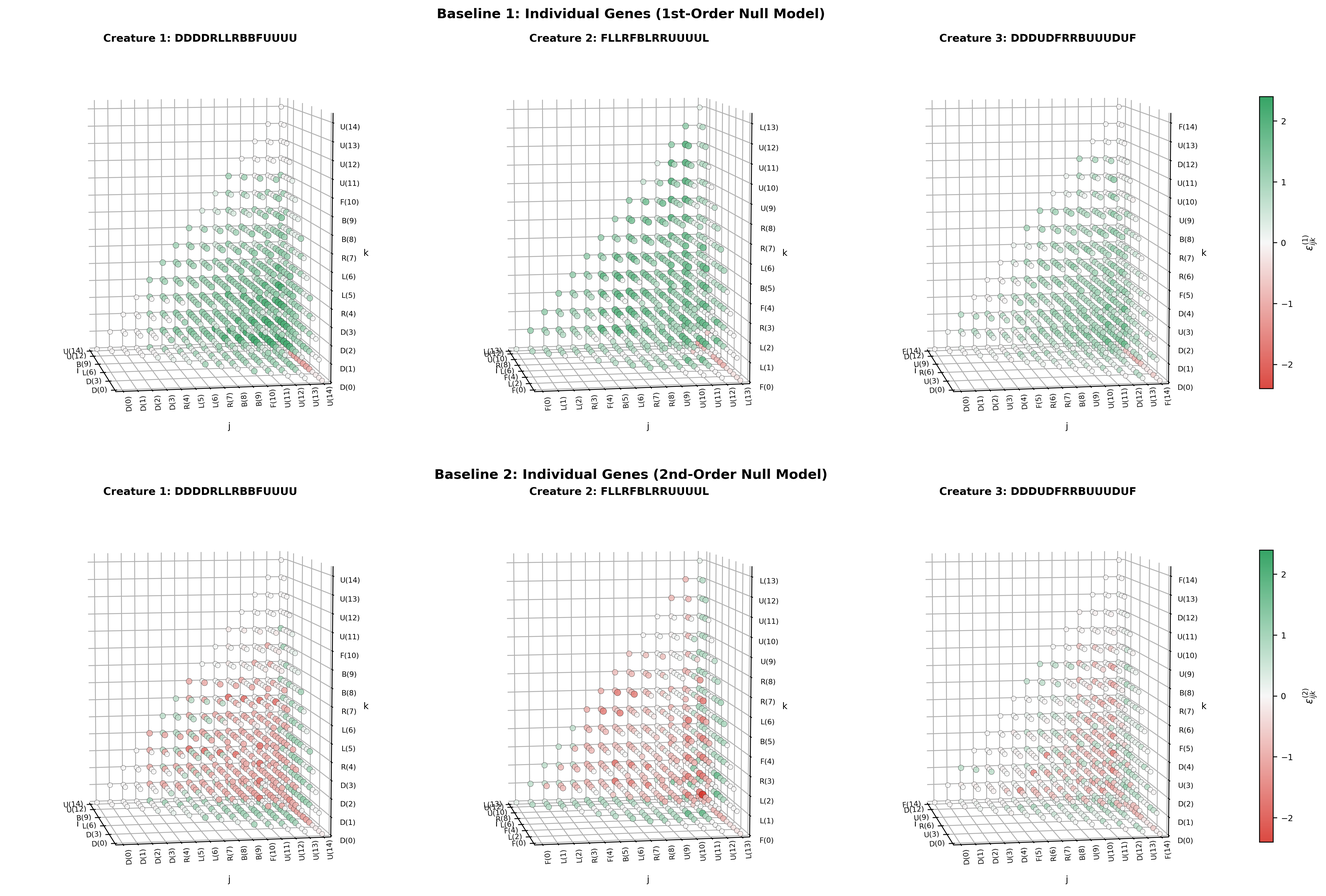
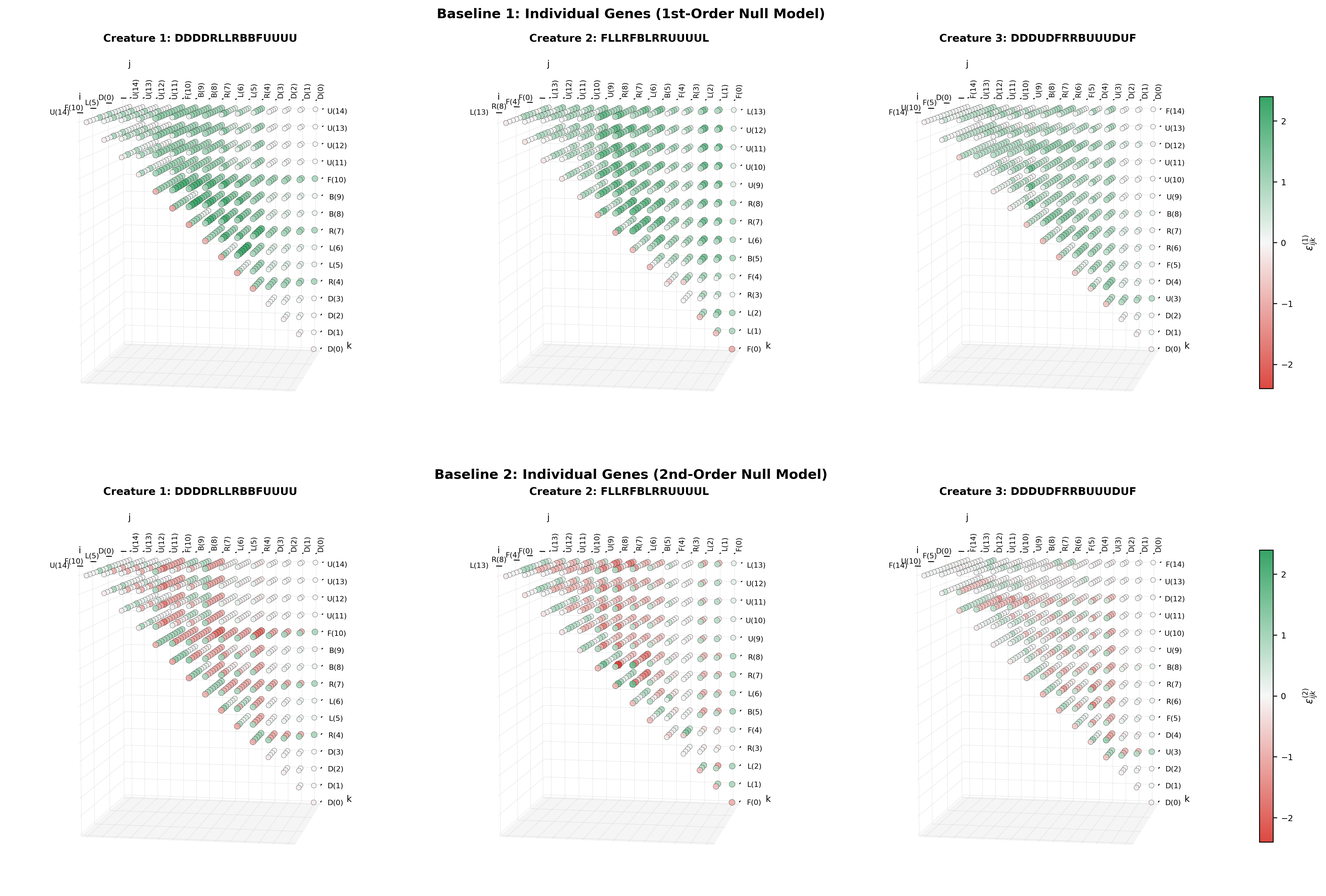
BIA/evo assignment 7: canonical 3D epistasis indexing, desaturate grid, update docs and TODO

diff --git a/sem-1/BIA/Evolutionary Design/assignments/Assignment 7 - Epistasis & Gene linkage/estimate_3d_epistasis.py b/sem-1/BIA/Evolutionary Design/assignments/Assignment 7 - Epistasis & Gene linkage/estimate_3d_epistasis.py
@@ -233,36 +233,17 @@ def _resolve_baseline_config(baseline: Any) -> Tuple[int, Dict[str, str]]:
 
 
 def extract_plotted_points(res: Dict[str, Any], baseline: int = 1,
-    include_lateral: bool = True, include_diagonal: bool = True, opposite_corner: bool = True,
+    include_lateral: bool = True, include_diagonal: bool = True, opposite_corner: bool = False,
 ) -> Tuple[List[int], List[int], List[int], np.ndarray]:
     """
-    Extracts (xs, ys, zs, vals) for a single creature and baseline.
-    Tetrahedron structure:
-      When opposite_corner=True (default):
-        Places the tetrahedron on the opposite corner of the ji-plane:
-        - Base triangle on k=0: corner at (L-1, L-1, 0), hypotenuse between (0, L-1, 0) and (L-1, 0, 0)
-        - Vertical wall on i=L-1: (L-1, L-1, 0) - (L-1, 0, 0) - (L-1, L-1, L-1)
-        - Vertical wall on j=L-1: (L-1, L-1, 0) - (0, L-1, 0) - (L-1, L-1, L-1)
-        - Apex at (L-1, L-1, L-1)
-      When opposite_corner=False:
-        - Base triangle on k=0: (0, 0, 0) - (L-1, 0, 0) - (0, L-1, 0)
-        - Vertical wall on i=0: (0, 0, 0) - (0, L-1, 0) - (0, 0, L-1)
-        - Vertical wall on j=0: (0, 0, 0) - (L-1, 0, 0) - (0, 0, L-1)
-        - Apex at (0, 0, L-1)
+    Extracts (xs, ys, zs, vals) for a single creature and baseline where
+    coordinates directly correspond 1-to-1 via identity to gene indices:
+    x = gene i, y = gene j, z = gene k, and val = tensor[i, j, k].
 
-    Domain:
-      0 <= k < L
-      0 <= j <= L - 1 - k
-      0 <= i <= L - 1 - k - j
-      (i.e. i >= 0, j >= 0, k >= 0, i + j + k <= L - 1)
-    Mapped sorted gene indices:
-      a = i
-      b = i + j
-      c = i + j + k
-    where 0 <= a <= b <= c < L:
-      - Strict triplets: a < b < c (i >= 0, j > 0, k > 0)
-      - Lateral pairs: (a == b < c, i.e. j == 0, k > 0) or (a < b == c, i.e. j > 0, k == 0)
-      - Diagonal single knockouts: a == b == c (j == 0, k == 0)
+    Canonical triplets domain: 0 <= i <= j <= k < L:
+    - Strict triplets: i < j < k (canonical ordered combinations, C(L, 3))
+    - Lateral pairwise epistasis: (i == j < k) or (i < j == k)
+    - Diagonal single knockouts: i == j == k (spatial diagonal)
     """
     geno = res['geno']
     L = len(geno)
@@ -273,24 +254,19 @@ def extract_plotted_points(res: Dict[str, Any], baseline: int = 1,
         return [], [], [], np.array([], dtype=float)
 
     xs, ys, zs, vals = [], [], [], []
-    for k in range(L):
-        for j in range(L - k):
-            for i in range(L - k - j):
-                a = i
-                b = i + j
-                c = i + j + k
-                if not include_lateral and (a == b or b == c):
+    for i in range(L):
+        for j in range(i, L):
+            for k in range(j, L):
+                is_diag = (i == j == k)
+                is_lat = (i == j or j == k) and not is_diag
+                if not include_diagonal and is_diag:
                     continue
-                if not include_diagonal and (a == b == c):
+                if not include_lateral and is_lat:
                     continue
-                val = tensor[a, b, c]
+                val = tensor[i, j, k]
                 if not np.isnan(val):
-                    if opposite_corner:
-                        xs.append(L - 1 - i)
-                        ys.append(L - 1 - j)
-                    else:
-                        xs.append(i)
-                        ys.append(j)
+                    xs.append(i)
+                    ys.append(j)
                     zs.append(k)
                     vals.append(val)
 
@@ -350,7 +326,7 @@ def plot_creature_3d_heatmap(ax: Axes3D,
     ax.set_box_aspect((stretch_xy, stretch_xy, stretch_k))
 
     # Clean panes: eliminate distracting empty cube background fills
-    ax.xaxis.pane.fill = ax.yaxis.pane.fill = ax.zaxis.pane.fill = False
+    # ax.xaxis.pane.fill = ax.yaxis.pane.fill = ax.zaxis.pane.fill = False
     ax.xaxis.pane.set_edgecolor('none'), ax.yaxis.pane.set_edgecolor('none'), ax.zaxis.pane.set_edgecolor('none')
 
     #stat = res.get('stats', {})
@@ -359,16 +335,19 @@ def plot_creature_3d_heatmap(ax: Axes3D,
     prefix_lbl = f"Creature {creature_idx}: " if creature_idx is not None else ""
     ax.set_title(f"{prefix_lbl}{geno}", fontsize=9.5, fontweight='bold', pad=8)
 
-    step = max(1, L // 5)
+    step = max(1, L // 3)
     tick_locs = list(range(0, L, step))
     if (L - 1) not in tick_locs:
         tick_locs.append(L - 1)
+        if L-1 - tick_locs[-2]<step//2:
+            tick_locs.pop(-2)     
+
     tick_labels = [f"{geno[p]}({p})" for p in tick_locs]
 
     ax.set_xticks(tick_locs)
-    ax.set_xticklabels(tick_labels, fontsize=6.5, rotation=-azim//2, ha='right', va='center')
+    ax.set_xticklabels(tick_labels, fontsize=6.5, rotation=0, ha='right', va='center')
     
-    yang = 90-azim//2
+    yang = 90
     ytick_locs = list(range(0, L, int(round(90/yang))))
     ytick_labels = [f"{geno[p]}({p})" for p in ytick_locs]
     ax.set_yticks(ytick_locs)
@@ -381,12 +360,27 @@ def plot_creature_3d_heatmap(ax: Axes3D,
 
     # Decouple x-axis (i) ticks from vertical z-displacement so i labels stay higher on screen
     ax.xaxis._axmask = lambda: [False, True, False]
-    ax.tick_params(axis='x', pad=-2.0)
+    ax.tick_params(axis='x', pad=0)
     ax.tick_params(axis='y', pad=-1.5)
 
-    ax.set_xlabel("i", fontsize=8, labelpad=0)
-    ax.set_ylabel("j", fontsize=8, labelpad=1)
+    ax.set_xlabel("i", fontsize=8, labelpad=20)
+    ax.set_ylabel("j", fontsize=8, labelpad=2, y=0.5)
     ax.set_zlabel("k", fontsize=8, labelpad=2)
+
+    # place ticks/axes on the opposite corners to match the pyramide's edges
+    ax.xaxis._axinfo['juggled'] = (2,2,2)
+    ax.yaxis._axinfo['juggled'] = (2,2,2)
+    ax.zaxis._axinfo['juggled'] = (1,1,1)
+
+    #desaturating redundant coordinate planes:
+    ax.xaxis.set_pane_color((1, 1, 1, 0.2))  # yz-plane
+    ax.yaxis.set_pane_color((1, 1, 1, 0.2))  # xz-plane
+    # Leave ax.zaxis pane unchanged for xy-plane
+
+    # Desaturate background gridlines across all 3D axes
+    for axis in [ax.xaxis, ax.yaxis, ax.zaxis]:
+        axis._axinfo['grid']['color'] = (0.75, 0.75, 0.75, 0.35)
+        axis._axinfo['grid']['linewidth'] = 0.4
 
     if invert_i:
         ax.set_xlim(L - 0.5, -0.5)
@@ -709,7 +703,7 @@ def main():
     parser.add_argument("--stretch-k", type=float, default=2.5, help="Box aspect stretch factor for the k (vertical) axis (default: 2.0).")
     parser.add_argument("--stretch-xy", type=float, default=2, help="Box aspect stretch factor for the i and j (horizontal) axes (default: 1.5).")
     parser.add_argument("--elev", type=float, default=8.0, help="3D camera elevation angle in degrees (default: 8).")
-    parser.add_argument("--azim", type=float, default=-10, help="3D camera azimuth angle in degrees (default: 15).")
+    parser.add_argument("--azim", type=float, default=-170, help="3D camera azimuth angle in degrees (default: 15).")
 
     args = parser.parse_args()
 

diff --git a/sem-1/BIA/Evolutionary Design/assignments/Assignment 7 - Epistasis & Gene linkage/README.md b/sem-1/BIA/Evolutionary Design/assignments/Assignment 7 - Epistasis & Gene linkage/README.md
@@ -123,16 +123,26 @@ _**Figure 4:** Pairwise epistasis matrices for_ $k=3$ _dissimilar tall structure
 |Phenotypic specialization| [Creature 1](./selected/selected_1_HoF-f9-14.gen)<br><code>/\*9\*/</code><code style="color: blue">DDDD</code><code style="color: purple">R</code><code style="color:red">LL</code><code style="color:purple">R</code><code style="color:green">BB</code><code style="color:lime">F</code><code style="color:#00bcd4">UUUU</code> | [Creature 2](./selected/selected_2_HoF-f9-2.gen)<br> <code>/\*9\*/</code><code style="color:lime">F</code><code style="color: red">LL</code><code style="color:purple">R</code><code style="color:lime">F</code><code style="color:green">B</code><code style="color:red">L</code><code style="color:purple">RR</code><code style="color:#00bcd4">UUUU</code><code style="color:red">L</code> | [Creature 3](./selected/selected_3_HoF-f9-6.gen)<br><code>/\*9\*/</code><code style="color: blue">DDD</code><code style="color:#00bcd4">U</code><code style="color:blue">D</code><code style="color:lime">F</code><code style="color:purple">R</code><code style="color:purple">R</code><code style="color:green">B</code><code style="color:#00bcd4">UUU</code><code style="color:blue">D</code><code style="color:#00bcd4">U</code><code style="color:lime">F</code> |
 |-| ---------- | ---------- | ---------- |
 |**Spine growth genes**| **0-3, 11-14**. The first 4 `D` and the last 4 `U` genes correspond to the <em><b><span style="color:blue">blue</span></b></em> and <em><b><span style="color:#00bcd4">cyan</span></b></em> _twin-chords_, directly responsible for the **height** of the creature. Having **two (redundant) copies** slightly increases the center of the mass height (`vertpos`). Deleting these letters individually only slightly decreases `vertpos` (rows and columns 0 to 3 and 11 to 14 are mainly zero value). |**9-13**. Since these genes program growth of the spine (`UUUUL`) only (increasing `vertpos`), they do not interact with each other, but their positive (in terms of `vertpos`) effect depends on _base_ genes (_0-3, 5-8_). In contrast to genes _9-12_, gene `L` serves stabilization purpose.|**0-3, 9-14**. Similar to the first (best) creature, there are 2 spines - <em><b><span style="color:blue">blue</span></b></em> and <em><b><span style="color:#00bcd4">cyan</span></b></em>, encoded by the genes at the ends of genome. In contrast to the former creature, 2 genes - `U`<sup>3</sup> and `D`<sup>12</sup> are the **key gene responsble for stability** of the creature, since both decrease long chords lengths (and hence <u>two pairs of genes <`U`<sup>3</sup>, `D`> and <`D`<sup>12</sup>, `U`> cancel out</u> - the same effect described in the second creature) - without them the creature overturns. **4**. The role of the gene `D`<sup>4</sup> is complementary to the gene `U`<sup>3</sup>, making it a **key gene responsible for morphological stability** - without this the <em><b><span style="color:blue">blue</span></b></em> chord would grow below _the base_ level, overturning the creature.
-|**Plinth genes**|**4**. Gene `R` tells the direction to place the <em><b><span style="color:blue">blue</span></b></em> spine (`DDDD`) in the center of creature's plinth, critical to the stability of the creature - removing this gene places the center of mass allows small physical perturbations to overturn the creature, coloring the 4th row and column into <em style="color:MediumSeaGreen">light green</em> (definitely positive effect). However, removal of just one `D` places the center of mass safely above the base. **5-6**. These genes are responsible for symmetry of a base, and hence are **critical for stability** of the whole creature (interaction with genes _4-10_). Genes encoding _spines_ have little mutual effect with these two genes individually, the relationship will appear on [3D map of epistasis](#3d-epistasis-heatmaps). **7**. Gene `R` here is directly responsible for the symmetry of the base, placing the center of mass directly on the median segment of the base hull, yielding the highest "collaboration rate" (central <em style="color:MediumSeaGreen">light green cross</em> on the matrix). **8-9**. Each of two genes `B` allows <em><b><span style="color:#00bcd4">cyan</span></b></em> chord to be placed - without one of these two genes the second spine disappears and `vertpos` drops noticeably. **10** Gene `F` places the <em><b><span style="color:#00bcd4">cyan</span></b></em> spine towards the center of the base, which is critical for stability (without this gene a creature overturns).| **0-2**. Gene `F` allows for one of the supporting sticks to emerge (**key for stabilization**), genes `LL` move this 'leg' towards the only place, where the position of the creature is stable. **3-4**. These genes alter the base form but in the way that does not affect the stability of the creature, thus these genes show **little epistasis** (~zero rows/colums). **5-8**. These genes influence the shape of _the base_ (`BL`) and position of _the spine_ on it (`RR`), and thus have positive epistasis with spine-genes. Gene <code>L<sup>6</sup></code> specifically has strong interaction with `RR` genes (<em style="color:green">dense green</em>), shortening the base extended by 2 _R_-direction genes, thus **making the base hull compact**. <u>Hence a pair `LR` cancels out (redundant subsequence)</u>|**5-8**. Genes `FRRB` form a U-shaped _base_, placing the center of mass strictly inside _the base hull_. Each gene here has an individual interaction with every other base gene.
+|**Plinth genes**|**4**. Gene `R` tells the direction to place the <em><b><span style="color:blue">blue</span></b></em> spine (`DDDD`) in the center of creature's plinth, critical to the stability of the creature - removing this gene places the center of mass allows small physical perturbations to overturn the creature, coloring the 4th row and column into <em style="color:MediumSeaGreen">light green</em> (definitely positive effect). However, removal of just one `D` places the center of mass safely above the base. **5-6**. These genes are responsible for symmetry of a base, and hence are **critical for stability** of the whole creature (interaction with genes _4-10_). Genes encoding _spines_ have little mutual effect with these two genes individually, the relationship will appear on [3D map of epistasis](#3d-epistasis-heatmaps). **7**. Gene `R` here is directly responsible for the symmetry of the base, placing the center of mass directly on the median segment of the base hull, yielding the highest "collaboration rate" (central <em style="color:MediumSeaGreen">light green cross</em> on the matrix) - for instance, removing any other spinal gene restores the balance; removing any base gene does nothing - the creature already overturned (in both cases $\Delta F_{7, i} \gg \Delta F_7 + \Delta F_i$). **8-9**. Each of two genes `B` allows a <em><b><span style="color:#00bcd4">cyan</span></b></em> chord to appear - without one of these genes the second spine grows inside the first one and the creature falls down. **10** Gene `F` places the <em><b><span style="color:#00bcd4">cyan</span></b></em> spine towards the center of the base, which is critical for stability (without this gene a creature overturns).| **0-2**. Gene `F` allows for one of the supporting sticks to emerge (**key for stabilization**), genes `LL` move this 'leg' towards the only place, where the position of the creature is stable. **3-4**. These genes alter the base form but in the way that does not affect the stability of the creature, thus these genes show **little epistasis** (~zero rows/colums). **5-8**. These genes influence the shape of _the base_ (`BL`) and position of _the spine_ on it (`RR`), and thus have positive epistasis with spine-genes. Gene <code>L<sup>6</sup></code> specifically has strong interaction with `RR` genes (<em style="color:green">dense green</em>), shortening the base extended by 2 _R_-direction genes, thus **making the base hull compact**. <u>Hence a pair `LR` cancels out (redundant subsequence)</u>|**5-8**. Genes `FRRB` form a U-shaped _base_, placing the center of mass strictly inside _the base hull_. Each gene here has an individual interaction with every other base gene.
+
+
+<a id="base-spine-specialization"></a>
 
 #### Specialization of genes extracted from pairwise epistasis matrix
-[The table](#table-epistasis-genes) above can be summarized as follows: after canceling out redundant subsequences of genes, rows and columns that form <em style="color:MediumSeaGreen">light green</em> to <em style="color:green">dense green</em> squares correspond to the _plinthed base_ phenes and the rows and columns that has near-zero interaction with each other (`white` squares) and intermediate interactions (<em style="color:#cefad0">pale green</em>) with the other genes, form _spine_ phene groups. See [Figure 4](#fig-epistasis-matrices)
+[The table](#table-epistasis-genes) above can be summarized as follows: after canceling out redundant subsequences of genes, rows and columns can be grouped in two groups:
+- Groups that have noticeable interaction (<em style="color:MediumSeaGreen">light green</em> to <em style="color:green">dense green</em> squares) correspond to the _plinthed base_ phenes (and have strong individual effects - <em style="color:lightcoral">bright red</em> diagonal elements)
+- groups that has near-zero interaction with each other (`white` squares) and intermediate interactions (<em style="color:#cefad0">pale green</em>) with the other genes, form _spine_ phene groups. See [Figure 4](#fig-epistasis-matrices). 
 
 #### Individual effects (red diagonals)
 Individual (diagonal) effects $\Delta F_i$ take negative values since extraction of any gene from the genome leads to a decrease in the fitness depending on the role of the gene:
-- gene encodes _spinal phene_ $\implies$ height slightly decreases
-- gene encodes a part of _plinth_ $\implies$ creature immediately falls down yielding near-zero fitness.
+- gene $s$ encodes _spinal phene_ $\implies$ height slightly decreases (<em style="color:#faced0">pale red</em> diagonal elements): $\Delta F_s\approx 0$
+- gene $b$ encodes a part of _base plinth_ $\implies$ creature immediately falls down yielding near-zero fitness (<em style="color:lightcoral">bright red</em> diagonal elements): $\Delta F_b\gg 0$
 
+Since removing any _base_ gene overturns the creature, near-zero epistasis between _base_ and _spinal_ genes can be explained by individual effect of knocking out a base gene $b$
+
+$$ \varepsilon_{b, s} \approx 0 \iff \Delta F_{b,s} \approx \Delta F_b + \Delta F_s \approx \Delta F_b$$
+
+In rare cases (base gene `7` in Creature 1, green cross on [Figure 4](#fig-epistasis-matrices)) base and spinal genes strongly interact with each other.
 
 ## Triple Epistasis (Task 2)
 
@@ -165,10 +175,10 @@ $$\varepsilon^{(2)}_{i,j,k} \equiv \varepsilon^{(1)}_{i,j,k} - (\varepsilon_{ij}
 
 _**Note:** In case of [Baseline 1](#baseline-1),_ $\varepsilon^{(1)}_{i,j,k} = 0$ _would mean that either the interaction is additive_ $(\varepsilon^{(1)}_{i,j,k}=\Delta F_i+\Delta F_j + \Delta F_k)$ _or pairwise-decomposable_ ($\varepsilon^{(2)}_{i,j,k}=\Delta F_{ijk}$). _Hence the definition of $\varepsilon^{(1)}$ yields less information than of_ $\varepsilon^{(2)}$.
 
-In the calculated 3D tensors $(L \times L \times L)$:
+In the calculated 3D tensors $(L \times L \times L)$ and [Figure 5](#3d-epistasis-heatmaps):
 - The main diagonal ($i = j = k$) stores the single-gene knockout effect $\Delta F_i (\equiv \Delta F_{iii})$.
-- The 2D lateral planes/diagonals ($i = j \ne k$, etc.) store the pairwise epistases $\varepsilon_{ij}$.
-- The off-diagonal entries ($i \ne j \ne k \ne i$) store the triplet epistasis ($\varepsilon_{ijk}^{(\cdot)}$).
+- Diagonal planes with 2 coincide indices (e.g. $(i=j, k)$) store [pairwise epistases](#fig-epistasis-matrices) $\varepsilon_{i,j}$.
+- The off-diagonal entries ($i \ne j \ne k \ne i$) store the triplet epistasis ($\varepsilon_{ijk}^{(\cdot)}$). For a given knocked out gene $k$, a cross-section parallel to one of the coordinate planes - $\pi^k_{ij} = \{(i, j) |\text{fix }k\}$ - stores the pairwise epistases $\varepsilon^k_{ij}$ after gene $k$ is knocked out.
 
 ### 3D Epistasis Heatmaps
 
@@ -176,7 +186,7 @@ In the calculated 3D tensors $(L \times L \times L)$:
   <img src="./results/epistasis/epistasis_3d_combined.png" width="98%" alt="3D Epistasis Heatmaps across Baseline 1 and Baseline 2"/>
   <br>
 
-_**Figure 5:** 3D epistasis heatmaps (balls arranged in a 3D grid) for_ $k=3$ _dissimilar creatures. **Top row:** Baseline 1 (relative to individual genes_ $\varepsilon_{ijk}^{(1)}$). _**Bottom row:** Baseline 2 (relative to pairwise interactions_ $\varepsilon_{ijk}^{(2)}$). _**Colormap:** Green - positive synergy / buffering; Red - negative / synthetic breakdown. The scale of the colormap differs from the one used in 2D-epistatic visualisations._
+_**Figure 5:** 3D epistasis heatmaps (balls arranged in a 3D grid) for_ $k=3$ _dissimilar creatures, depicting_ $\varepsilon_{ijk}^{(\cdot)}\ | \ \forall i\le j\le k$. **Top row:** Baseline 1 (relative to individual genes_ $\varepsilon_{ijk}^{(1)}$). _**Bottom row:** Baseline 2 (relative to pairwise interactions_ $\varepsilon_{ijk}^{(2)}$). _**Colormap:** Green - positive synergy / buffering; Red - negative / synthetic breakdown. The scale of the colormap differs from the one used in 2D-epistatic visualisations. A semiplane on the visilbe side of the pyramides coincide with the upper triangle of epistasis matrices ([Figure 4](#fig-epistasis-matrices))._
 </p>
 
 ### Epistasis Matrix Sums Comparison
@@ -208,8 +218,18 @@ $$\lvert\bar{\varepsilon}^{(\cdot)}\rvert \mathrel{:=} \frac{1}{\binom{L}{3}} \s
 
 2. **Baseline 2 ($\sum \varepsilon^{(2)} < 0$, Irreducible Negative 3-Way Epistasis)**:
    - Once all pairwise interactions are accounted for, the total epistasis flips to negative (prominent red clusters, $\text{dir }\varepsilon^{(2)} \ll 0$).
-   - As predicted in [Task 1](#table-epistasis-genes), base-symmetry genes (e.g. <code>LL/R<sup>5-7</sup></code> in Creature 1, or <code>BL/RR<sup>5-8</sup></code> in Creature 2, see the [Table](#table-epistasis-genes)) have strong pairwise collaborations with the spine anchors (<code>R<sup>4</sup></code>, <code>F<sup>10</sup></code>). When two of these genes are knocked out, the creature has already completely toppled over: knocking out a third gene (such as a spinal segment `UUUU`) produces diminishing marginal damage compared to what the pairwise sum predicts, manifesting as negative third-order interaction.
-   - Creature 3 features the lowest magnitude of 3-way epistasis ($|\sum \varepsilon^{(2)}| = 62.25$ vs $171.78$ in Creature 1) because its alternating loops (`DDDUDFRRBUUUDUF`) distribute structural stabilization across several self-canceling sub-segments (`UD`, `DU`), making its higher-order genetic interactions more modular.
+   - As mentioned in [Task 1](#base-spine-specialization), **_base_ genes** (e.g. `4-10` in Creature 1, or `0-8` in Creature 2, see the [Table](#table-epistasis-genes)) **have strong pairwise collaborations** with each other and intermediate collaboration with the _spine_ encoding genes. When one of _base_ genes $b$ is knocked out, in most cases creature topples over: 
+      - knocking out two spinal genes will take no effect (white bars on 3D map: main terms in the epistasis formula are $F_{b,b', s} -\Delta F_{b}\approx 0$); 
+      - knocking out a pair of _base_ and _spinal_ genes $(b', s)$ pproduces diminishing marginal damage compared to what the pairwise sum predicts, manifesting as negative third-order interaction (due to 2 individual base effects $ \Delta F_{b, b', s} - (\Delta F_{b'} + \Delta F_{b}) \ll 0$).
+      - In some cases knocking two base genes have buffered knocking out a third spinal gene from toppling the creature over: in creature 1 knocking out any of genes 0-3 once two genes 5-6 are knocked out, preserves stability of the creature - green row on a 3D map.
+      - Analagous type of buffering happens in the same creature when _base_ gene 8/9 is knocked out and then 2 "parallel" spinal genes (0-3 and 11-14) must be dropped out to preserve stability of the creature. 
+      - Similar to the effect of knocking out 2 bases, knocking out 3 bases may yield the worst result in case of strong pairwise dependency: knocking genes 6-8 in Creature 2 yields the formula with multiple dominating negative terms ($-\varepsilon$) in the epistasis formula.
+
+   - Creature 3 features the lowest magnitude of 3-way epistasis ($|\sum \varepsilon^{(2)}| = 62.25$ vs $171.78$ in Creature 1) because its alternating loops (`DDDUDFRRBUUUDUF`) distribute structural stabilization across several self-canceling sub-segments (`UD`, `DU`), making its higher-order genetic interactions more modular: this creature features the least amount of triple epistatic effects.
+
+   - Empirical examination of the Baseline 2 3D maps suggests that positive epistasis - green areas of off-diagonal entries - provide information regarding buffering interaction between triplets of genes. For instance, knocking out 3 genes 3-4 and 1 or 2 in creature 3 preserves its stability, i.e. the creature doesn't topple down. Negative and neutral values provide little information regarding triple interactions due to positive pairwise epistases. 
+
+  
 
 ## How to Run
 ```powershell

diff --git a/sem-1/BIA/Evolutionary Design/assignments/Assignment 7 - Epistasis & Gene linkage/TODO.md b/sem-1/BIA/Evolutionary Design/assignments/Assignment 7 - Epistasis & Gene linkage/TODO.md
@@ -1,0 +1,21 @@
+# TODO: 3D Epistasis README Feedback & Corrections
+
+- [ ] **Answer Key Question Explicitly in Section 212**:
+  - Explicitly open the discussion by stating that Baseline 2 is distinctly more useful for discovering new higher-order triplet information.
+  - Reiterate that Baseline 1 is dominated by trivial positive epistasis caused by the physical fitness floor ($F \ge 0$), whereas Baseline 2 isolates genuine irreducible 3-way interactions by controlling for additive and pairwise effects.
+
+- [ ] **Revise Line 230 (Interpretation of Baseline 2 Signs)**:
+  - Avoid stating that negative values provide "little information". Negative values are highly informative: they represent diminishing marginal damage / modular redundancy saturation where pairwise knockouts have already triggered the primary failure mode.
+  - Distinguish both regimes clearly:
+    - **Positive $\varepsilon^{(2)} > 0$ (Green)**: Genuine 3-way synergistic buffering (knocking out 3 genes retains/restores stability better than predicted from pairwise breakdowns).
+    - **Negative $\varepsilon^{(2)} < 0$ (Red)**: Modularity / functional bottleneck saturation (the 3rd knockout adds diminishing structural damage compared to pairwise expectations).
+
+- [ ] **Fix Mathematical Notations & Typos in Lines 221-226**:
+  - Fix notation in line 222: replace mixed $F_{b,b',s} - \Delta F_b$ with consistent fitness differences $\Delta F_{b, s_1, s_2} - \Delta F_b$ (or explicit $F(g \setminus \dots)$ expressions).
+  - Fix typo in line 223: `pproduces` -> `produces`.
+  - Fix expression $\Delta F_{b, b', s} - (\Delta F_{b'} + \Delta F_b)$ to properly reflect the pairwise terms being subtracted in Baseline 2.
+
+- [ ] **Clarify Baseline 1 Definition in Line 176**:
+  - Clarify that $\varepsilon^{(1)}_{ijk} = 0$ strictly means exact linear additivity ($\Delta F_{ijk} = \Delta F_i + \Delta F_j + \Delta F_k$).
+  - Avoid conflating $\varepsilon^{(1)} = 0$ with pairwise decomposability, as pairwise decomposability strictly corresponds to $\varepsilon^{(2)}_{ijk} = 0$.
+
